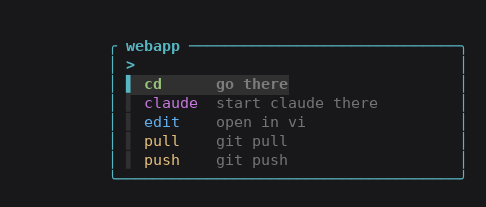
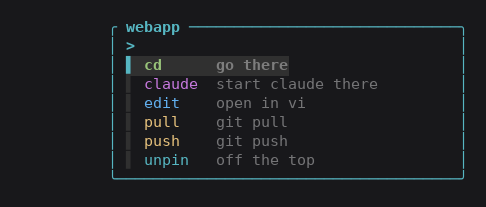
Pin from the menu, on both platforms
The Windows port had no ^t: it would need pwsh under a key. The menu runs
after fzf has closed, so a pin row there costs nothing. Bash gets the same
row for parity; ^t stays. The row reads pin or unpin for the state of the
entry, toggles it in the pins file, and drops you back in the reordered
list. The PowerShell module now reads the pins file too, the same one the
bash version keeps.

diff --git a/docs/bookmarks.md b/docs/bookmarks.md
@@ -22,10 +22,10 @@ Invent whatever ones you want.
 Hosts from your ssh config appear alongside, under `ssh/` categories, without
 being listed here. See [SSH hosts](ssh.md).
 
-Press `^t` in the picker to pin or unpin whatever is selected. It takes effect
-immediately and survives restarts, kept in `~/.config/hop/pins` as a
-category/name pair rather than a copy of the entry, so a pin never goes stale
-when you edit the path.
+`pin` in the `enter` menu pins whatever is selected; `unpin` takes it back
+off. So does `^t`. It takes effect immediately and survives restarts, kept in
+`~/.config/hop/pins` as a category/name pair rather than a copy of the entry,
+so a pin never goes stale when you edit the path.
 
 You can also pin in the file itself, by prefixing a name with `*`:
 
@@ -39,8 +39,8 @@ Pinned entries sort first and keep their category. Because a later source
 overrides an earlier one, a personal file can pin something a system file
 defined, by repeating it with a `*`.
 
-`^t` wins over both: it can unpin something a file pinned with `*`, including
-a file you have no write access to.
+A pin from the picker wins over both: it can unpin something a file pinned
+with `*`, including a file you have no write access to.
 
 A bookmark can point at a file. `go` takes you to its directory, `edit`
 opens the file.
@@ -119,8 +119,8 @@ Every key has a working default, so no file is fine. See
 | `minimal` | `on`, `off` | strip the chrome: no hints, no counter |
 | `column` | `off`, `auto`, `on` | the category column; off by default, `auto` fits it to the terminal |
 | `header` | `on`, `off` | the section strip and key hints |
-| `actions` | action names | the menu for a directory, in order; default `cd claude edit pull push` |
-| `ssh_actions` | action names | the menu for a host, in order; default `ssh claude edit` |
+| `actions` | action names | the menu for a directory, in order; default `cd claude edit pull push pin` |
+| `ssh_actions` | action names | the menu for a host, in order; default `ssh claude edit pin` |
 
 `minimal = on` is shorthand for `header = off`, so it is a default rather
 than a lock: set `header = on` alongside it and the hints come back.
@@ -139,7 +139,7 @@ assumes you know.
 | `^o` | show or hide the category column |
 | type | filter, category names match too |
 | `enter` | open the actions for the entry |
-| `^t` | pin or unpin the selected entry |
+| `^t` | pin or unpin the selected entry, same as `pin` in the menu |
 
 `hop web` starts with `web` already typed.
 
@@ -156,6 +156,7 @@ Typing filters it like any other fzf list.
 | `edit` | open in `$EDITOR`, then land there | open the ssh config |
 | `pull` | `git pull`, then land there | |
 | `push` | `git push`, then land there | |
+| `pin` / `unpin` | pin it to the top, or take it off, and back to the list | same |
 
 `pull` and `push` only appear for a git repository.
 
@@ -166,8 +167,8 @@ you reach for most can go first and the ones you never use can go:
 actions = claude cd edit
 ```
 
-puts `claude` on the first `enter` and drops `pull` and `push`.
+puts `claude` on the first `enter` and drops `pull`, `push` and `pin`.
 
-On Windows, `^o` toggles the preview instead of the column, and `alt-1` and
-`^t` do nothing; the `column` setting is ignored. See
+On Windows, `^o` toggles the preview instead of the column, `alt-1` and
+`^t` do nothing, and the `column` setting is ignored. Pin from the menu. See
 [Install](install.md#windows) for why.

diff --git a/docs/install.md b/docs/install.md
@@ -106,11 +106,12 @@ Same bookmarks format, same merge order, with `%ProgramData%\hop` standing in
 for `/etc/hop` and `%APPDATA%\hop` for `~/.config/hop`. Paths may use `/` or
 `\`. `~` and `$HOME` expand to your user directory.
 
-Not ported: the category column, `alt-N` and `^t` pinning. All three work
-by fzf re-invoking the script on every keypress, and starting `pwsh` costs a
-few hundred milliseconds each time. The category is a filterable prefix
-instead, so `hop web` and typing `conf` still narrow. `*` in the file still
-pins. `tab` does work: the lists it switches between are written to temp
+Not ported: the category column, `alt-N` and `^t`. All three work by fzf
+re-invoking the script on every keypress, and starting `pwsh` costs a few
+hundred milliseconds each time. The category is a filterable prefix instead,
+so `hop web` and typing `conf` still narrow. Pinning is `pin` in the `enter`
+menu, which runs after fzf has closed and so costs nothing; `*` in the file
+still pins too. `tab` does work: the lists it switches between are written to temp
 files before fzf starts and a batch file cycles them, so no `pwsh` sits under
 the key. The preview pane is there (`^o`), driven by `git` and `ssh -G`
 through `cmd.exe` so it stays quick.

diff --git a/ROADMAP.md b/ROADMAP.md
@@ -5,14 +5,15 @@
 `hop.psm1` does most of it: picking, `cd`, virtualenvs, the preview, ssh
 hosts, `tab`, the menu. Same files.
 
-Missing: the category column, `alt-N`, `^t` pinning.
+Missing: the category column, `alt-N`.
 
 Why: those work by fzf re-running the script on every keypress. Starting
 `pwsh` takes a few hundred milliseconds. Too slow under a key.
 
 `tab` got around it. Every list it can show is written to a file up front.
 A batch file swaps them. No `pwsh` in the loop. The same trick would do
-`alt-N`. Pinning is rare enough that a slow `^t` would be fine.
+`alt-N`. Pinning got around it too: it is a row in the menu, which runs
+after fzf has closed.
 
 One codebase for both was considered. Rejected. Two small scripts are less
 work than one portable one plus its runtime.

diff --git a/README.md b/README.md
@@ -6,7 +6,7 @@ Bookmarks. Directories and ssh servers. Pick one, choose an option, done.
 
 `enter` on a row:
 
-![the menu: cd, claude, edit, pull, push](docs/demo-menu.png)
+![the menu: cd, claude, edit, pull, push, unpin](docs/demo-menu.png)
 
 `enter` again and you are there.
 

diff --git a/docs/ssh.md b/docs/ssh.md
@@ -135,7 +135,7 @@ one:
 *djangor    ssh://ryan@203.0.113.7
 ```
 
-`^t` in the picker does the same without editing anything.
+`pin` in the picker's menu does the same without editing anything.
 
 ## Windows
 
